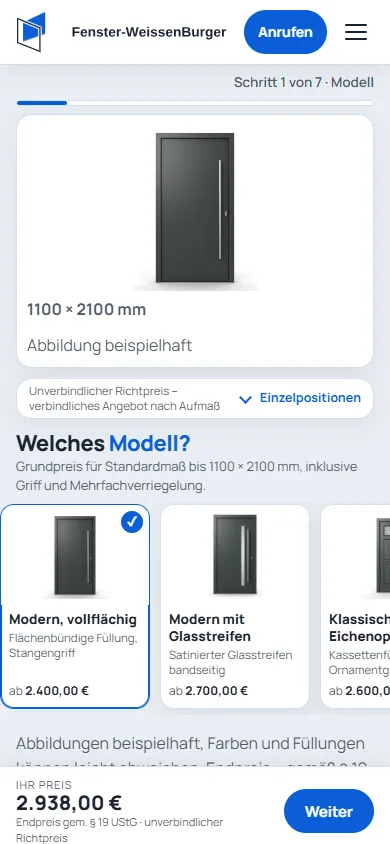
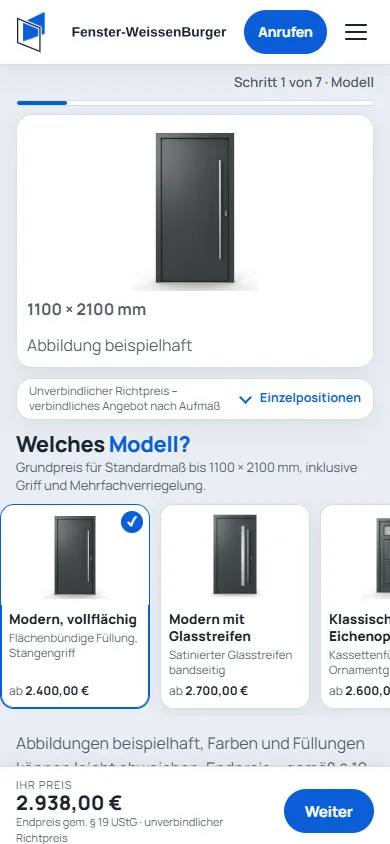
Konfigurator: Startfoto der Vorschau steht im HTML (kein Nachladen, kein Sprung; Bildwahl wie im Skript), AVIF-Schritt lässt skriptgesteuerte Bilder aus; Telefon: reservierte Höhen für Vorschau, Preiskasten und Karten (kein Layout-Sprung); Test für Startfoto; Screenshots aktualisiert

Changed region(s): [[0.0308, 0.4929, 0.4923, 0.5545], [0.0923, 0.0, 0.1231, 0.0308]]

diff --git a/scripts/build-konfigurator.js b/scripts/build-konfigurator.js
@@ -15,6 +15,30 @@ if (!["aus", "vorschau", "online"].includes(status)) throw new Error("Ungültige
 const preise = JSON.parse(fs.readFileSync(path.join(root, "data/preise.json"), "utf8"));
 const Preis = require(path.join(root, "js/preis.js"));
 const Steuer = require(path.join(root, "js/steuer.js"));
+/* Vorschaufoto der Startkonfiguration vorladen (LCP auf dem Telefon): Startzustand aus js/konfigurator.js (eine Quelle),
+   Bildwahl wie im Browser (js/konfigurator-bilder.js), größte Stufe – genau das Bild, das das Skript zuerst lädt. */
+function vorschauStart(key) {
+  try {
+    const js = fs.readFileSync(path.join(root, "js/konfigurator.js"), "utf8");
+    const m = js.match(/var state = produkt === "fenster"\s*\?\s*(\{[^\n]*\})\s*:\s*(\{[^\n]*\});/);
+    if (!m) return null;
+    const state = new Function("return " + (key === "fenster" ? m[1] : m[2]))();
+    const FWB = require(path.join(root, "js/konfigurator-bilder.js"));
+    const B = FWB.Bilder(JSON.parse(fs.readFileSync(path.join(root, "data/konfigurator-bilder.json"), "utf8")), JSON.parse(fs.readFileSync(path.join(root, "data/preise.json"), "utf8")));
+    const name = B.vorschau(key, state); if (!name) return null;
+    const info = B.info(name) || {}; const g = info.groessen || [900];
+    return { name, src: "/assets/konfigurator/" + name + "-" + g[g.length - 1] + ".webp", alt: info.alt || "Vorschau Ihrer Konfiguration – Abbildung beispielhaft", breite: info.breite || 896, hoehe: info.hoehe || 1200 };
+  } catch (e) { return null; }
+}
+/* Vorschau-Kasten: Startfoto steht bereits im HTML (größtes Element auf dem Telefon → früher LCP, kein Nachladen durch
+   das Skript, das denselben Namen erkennt); ohne passendes Foto bleibt die schematische Zeichnung */
+function vorschauKasten(key) {
+  const v = vorschauStart(key);
+  const img = v
+    ? `<img class="preview__foto" src="${v.src}" data-name="${esc(v.name)}" alt="${esc(v.alt)}" width="${v.breite}" height="${v.hoehe}" decoding="async" fetchpriority="high">`
+    : `<img class="preview__foto" alt="" width="896" height="1200" decoding="async" fetchpriority="high" hidden>`;
+  return `<div class="preview${v ? " hat-foto" : ""}"><div class="preview__media"><svg viewBox="0 0 320 300" role="img" aria-label="Schematische Vorschau Ihrer Konfiguration"></svg>${img}<span class="preview__etikett" hidden></span></div><div class="preview__fuss"><p class="preview__masse"></p><p class="preview__note">${v ? "Abbildung beispielhaft" : "Schematische Darstellung"}</p></div></div>`;
+}
 const SATZ = Steuer.satz(einst);
 const ST = Steuer.texte(SATZ);
 const listeOk = Preis.validiereListe(preise).ok;
@@ -70,7 +94,7 @@ function header(current) {
     <button type="button" class="menu-btn" aria-label="Menü öffnen" aria-expanded="false" aria-controls="hauptnav"><span class="menu-btn__i" aria-hidden="true"></span></button>
   </header>`;
 }
-function head(p, noindex, extraScripts) {
+function head(p, noindex, extraScripts, extraHead) {
   return `<!doctype html>
 <html lang="de">
 <head>
@@ -89,7 +113,7 @@ function head(p, noindex, extraScripts) {
   <meta property="og:image" content="${SITE}/assets/logo/og-image.png">
   <link rel="icon" href="/favicon.svg" type="image/svg+xml">
   <link rel="apple-touch-icon" href="/assets/logo/apple-touch-icon.png">
-  <link rel="preload" href="/assets/fonts/manrope-latin.woff2" as="font" type="font/woff2" crossorigin>
+  <link rel="preload" href="/assets/fonts/manrope-latin.woff2" as="font" type="font/woff2" crossorigin>${extraHead ? "\n  " + extraHead : ""}
   <link rel="stylesheet" href="/css/style.css?v=${V.style}">
   <link rel="stylesheet" href="/css/uebergang.css?v=${V.ueberCss}">
   <script src="/js/uebergang.js?v=${V.ueberJs}"></script>
@@ -197,7 +221,7 @@ function pageKonf(key) {
         </div>
 
         <aside class="konf__aside" aria-label="Ihre Konfiguration">
-          <div class="preview"><div class="preview__media"><svg viewBox="0 0 320 300" role="img" aria-label="Schematische Vorschau Ihrer Konfiguration"></svg><img class="preview__foto" alt="" width="896" height="1200" decoding="async" fetchpriority="high" hidden><span class="preview__etikett" hidden></span></div><div class="preview__fuss"><p class="preview__masse"></p><p class="preview__note">Schematische Darstellung</p></div></div>
+          ${vorschauKasten(key)}
           <div class="price"><p class="price__na">Preis wird berechnet …</p></div>
         </aside>
       </div>

diff --git a/tests/konfigurator-preload.test.js b/tests/konfigurator-preload.test.js
@@ -1,0 +1,54 @@
+/* Test: Die Online-Konfigurator-Seiten zeigen das Vorschaufoto der Startkonfiguration bereits im HTML (LCP auf dem
+   Telefon, kein Nachladen) – genau das Bild, das js/konfigurator.js für seinen Startzustand wählt (gleiche Bildauswahl,
+   größte Stufe, data-name für das Skript). Platzhalterseiten („Demnächst“) enthalten kein Foto. Keine festen Admin-Datenwerte: Startzustand und Bildnamen kommen aus den Quellen. */
+"use strict";
+const test = require("node:test");
+const assert = require("node:assert/strict");
+const fs = require("fs");
+const os = require("os");
+const path = require("path");
+const { execFileSync } = require("child_process");
+
+const ROOT = path.join(__dirname, "..");
+const lies = (f) => fs.readFileSync(path.join(ROOT, f), "utf8");
+
+function startzustaende() {
+  /* aus js/konfigurator.js: var state = produkt === "fenster" ? {…} : {…}; */
+  const js = lies("js/konfigurator.js");
+  const m = js.match(/var state = produkt === "fenster"\s*\?\s*(\{[^\n]*\})\s*:\s*(\{[^\n]*\});/);
+  assert.ok(m, "Startzustand in js/konfigurator.js gefunden");
+  return { fenster: new Function("return " + m[1])(), haustuer: new Function("return " + m[2])() };
+}
+function erwartet() {
+  const FWB = require("../js/konfigurator-bilder.js");
+  const B = FWB.Bilder(JSON.parse(lies("data/konfigurator-bilder.json")), JSON.parse(lies("data/preise.json")));
+  const st = startzustaende(), out = {};
+  for (const k of ["fenster", "haustuer"]) { const n = B.vorschau(k, st[k]); const g = ((B.info(n) || {}).groessen || [900]); out[k] = n ? `/assets/konfigurator/${n}-${g[g.length - 1]}.webp` : null; }
+  return out;
+}
+test("Generator (online): Vorschaufoto der Startkonfiguration steht im HTML – identisch mit der Bildwahl des Skripts; Platzhalterseite ohne Foto", () => {
+  const tmp = fs.mkdtempSync(path.join(os.tmpdir(), "fw-konf-preload-"));
+  const kopiere = (rel) => { const q = path.join(ROOT, rel); if (!fs.existsSync(q)) return; const z = path.join(tmp, rel); if (fs.statSync(q).isDirectory()) { fs.mkdirSync(z, { recursive: true }); for (const e of fs.readdirSync(q)) kopiere(path.join(rel, e)); } else { fs.mkdirSync(path.dirname(z), { recursive: true }); fs.copyFileSync(q, z); } };
+  for (const r of ["index.html", "leistungen", "referenzen", "produkte", "konfigurator", "data", "js", "css", "netlify/functions/_lib", "sitemap-seiten.xml"]) kopiere(r);
+  const e = JSON.parse(lies("data/einstellungen.json")); e.konfigurator = Object.assign({}, e.konfigurator, { status: "online" });
+  fs.writeFileSync(path.join(tmp, "data/einstellungen.json"), JSON.stringify(e));
+  execFileSync(process.execPath, [path.join(ROOT, "scripts/build-konfigurator.js")], { env: Object.assign({}, process.env, { FW_ROOT: tmp }), stdio: "pipe" });
+  const soll = erwartet();
+  for (const k of ["fenster", "haustuer"]) {
+    const html = fs.readFileSync(path.join(tmp, "konfigurator", k, "index.html"), "utf8");
+    const img = (html.match(/<img class="preview__foto"[^>]*>/) || [])[0];
+    assert.ok(img, k + ": Vorschaubild vorhanden");
+    if (soll[k]) {
+      assert.ok(img.includes(`src="${soll[k]}"`), k + ": " + img);
+      assert.ok(img.includes(`data-name="${path.basename(soll[k]).replace(/-\d+\.webp$/, "")}"`), k + ": data-name für das Skript");
+      assert.ok(/fetchpriority="high"/.test(img) && !/hidden/.test(img) && /alt="[^"]+Abbildung beispielhaft"/.test(img), k + ": sichtbar, priorisiert, Alternativtext");
+      assert.ok(/<div class="preview hat-foto">/.test(html) && html.includes('<p class="preview__note">Abbildung beispielhaft</p>'), k + ": Kasten im Foto-Zustand");
+    } else assert.ok(/hidden/.test(img));
+    assert.ok(!/rel="preload" as="image"/.test(html), k + ": kein zusätzlicher Preload");
+    /* Der AVIF-Schritt darf das skriptgesteuerte Vorschaubild nicht in <picture> hüllen (eine <source> würde spätere src-Wechsel überstimmen) */
+    const pic = require("../scripts/bilder-picture").verarbeite(ROOT, html, path.join(ROOT, "konfigurator", k, "index.html"));
+    assert.ok(!/<picture>(<source[^>]*>)*<img class="preview__foto"/.test(pic.html), k + ": Vorschaubild bleibt ohne <picture>");
+    const soon = fs.readFileSync(path.join(tmp, "konfigurator", k, "demnaechst.html"), "utf8");
+    assert.ok(!/preview__foto/.test(soon), k + ": Platzhalterseite ohne Vorschaufoto");
+  }
+});

diff --git a/css/konfigurator.css b/css/konfigurator.css
@@ -194,17 +194,17 @@
   .preview { padding: 8px 10px 8px; }
   .preview__media { height: clamp(140px, 20vh, 230px); min-height: 0; }
   .preview__fuss { grid-template-columns: 1fr; gap: 0; margin-top: 6px; }
-  .preview__masse { font-size: 13.5px; min-height: 0; }
+  .preview__masse { font-size: 13.5px; } /* min-height bleibt: wird per Skript befüllt (kein Layout-Sprung) */
   .preview__note { text-align: left; white-space: normal; overflow: visible; text-overflow: clip; font-size: 11px; line-height: 1.35; } /* „Abbildung beispielhaft“ in eigener Zeile, nie abgeschnitten */
   /* Preiskasten: eine Zeile – Hinweis links (klein, zweizeilig erlaubt), Link „Einzelpositionen anzeigen“ rechts; aufgeklappt volle Breite */
-  .price { padding: 5px 12px; min-height: 0; display: flex; flex-wrap: wrap; align-items: center; gap: 4px 10px; }
+  .price { padding: 5px 12px; min-height: 42px; box-sizing: border-box; display: flex; flex-wrap: wrap; align-items: center; gap: 4px 10px; } /* feste Mindesthöhe: Inhalt kommt per Skript */
   .price .preishinweis { margin: 0; flex: 1 1 160px; min-width: 0; font-size: 11.5px; line-height: 1.3; }
   .price .price__note { margin-top: 2px; font-size: 11.5px; flex: 1 1 100%; }
   .posliste { border-top: 0; margin-top: 0; padding: 0; flex: 0 0 auto; }
   .posliste[open] { flex: 1 1 100%; }
   .posliste summary { font-size: 12.5px; min-height: 28px; white-space: nowrap; }
   .posliste__mehr { display: none; } /* Telefon: „Einzelpositionen“ statt „Einzelpositionen anzeigen“ – Hinweis und Link passen in eine Zeile */
-  .konf__panels { min-height: 0; }
+  .konf__panels { min-height: 268px; } /* Platz für Titel + eine Kartenreihe, bevor das Skript rendert (kein Layout-Sprung) */
   .konf__panel h2 { font-size: clamp(21px, 5.6vw, 26px); margin: 2px 0 0; }
   .konf__panel .lead--sm { font-size: 13px; line-height: 1.4; display: -webkit-box; -webkit-line-clamp: 2; -webkit-box-orient: vertical; overflow: hidden; }
   .opts { margin-top: 8px; }

diff --git a/konfigurator/haustuer/demnaechst.html b/konfigurator/haustuer/demnaechst.html
@@ -22,7 +22,7 @@
   <script src="/js/uebergang.js?v=478247c7"></script>
   <link rel="stylesheet" href="/css/leistungen.css?v=7ab5d8d3">
   <link rel="stylesheet" href="/css/produkte.css?v=6f5cab02">
-  <link rel="stylesheet" href="/css/konfigurator.css?v=2f070900">
+  <link rel="stylesheet" href="/css/konfigurator.css?v=c3674258">
   <script type="application/ld+json">{"@context":"https://schema.org","@type":"BreadcrumbList","itemListElement":[{"@type":"ListItem","position":1,"name":"Start","item":"https://fenster-weissenburger.de/"},{"@type":"ListItem","position":2,"name":"Produkte","item":"https://fenster-weissenburger.de/produkte/"},{"@type":"ListItem","position":3,"name":"Haustür-Konfigurator","item":"https://fenster-weissenburger.de/konfigurator/haustuer/"}]}</script>
   <script type="application/ld+json" data-firma="jsonld">{"@context":"https://schema.org","@type":"LocalBusiness","@id":"https://fenster-weissenburger.de/#firma","name":"Fenster-WeissenBurger UG (haftungsbeschränkt)","url":"https://fenster-weissenburger.de/","telephone":"+49 176 81338935","email":"info@fenster-weissenburger.de","image":"https://fenster-weissenburger.de/assets/logo/og-image.png","logo":"https://fenster-weissenburger.de/assets/logo/og-image.png","address":{"@type":"PostalAddress","streetAddress":"Richard-Strauß-Straße 21","postalCode":"85057","addressLocality":"Ingolstadt","addressRegion":"Bayern","addressCountry":"DE"},"openingHoursSpecification":[{"@type":"OpeningHoursSpecification","dayOfWeek":["Monday","Tuesday","Wednesday","Thursday","Friday"],"opens":"09:00","closes":"17:00"}],"vatID":"DE451686074","priceRange":"€€"}</script>
   

diff --git a/konfigurator/haustuer/index.html b/konfigurator/haustuer/index.html
@@ -22,7 +22,7 @@
   <script src="/js/uebergang.js?v=478247c7"></script>
   <link rel="stylesheet" href="/css/leistungen.css?v=7ab5d8d3">
   <link rel="stylesheet" href="/css/produkte.css?v=6f5cab02">
-  <link rel="stylesheet" href="/css/konfigurator.css?v=2f070900">
+  <link rel="stylesheet" href="/css/konfigurator.css?v=c3674258">
   <script type="application/ld+json">{"@context":"https://schema.org","@type":"BreadcrumbList","itemListElement":[{"@type":"ListItem","position":1,"name":"Start","item":"https://fenster-weissenburger.de/"},{"@type":"ListItem","position":2,"name":"Produkte","item":"https://fenster-weissenburger.de/produkte/"},{"@type":"ListItem","position":3,"name":"Haustür-Konfigurator","item":"https://fenster-weissenburger.de/konfigurator/haustuer/"}]}</script>
   <script type="application/ld+json" data-firma="jsonld">{"@context":"https://schema.org","@type":"LocalBusiness","@id":"https://fenster-weissenburger.de/#firma","name":"Fenster-WeissenBurger UG (haftungsbeschränkt)","url":"https://fenster-weissenburger.de/","telephone":"+49 176 81338935","email":"info@fenster-weissenburger.de","image":"https://fenster-weissenburger.de/assets/logo/og-image.png","logo":"https://fenster-weissenburger.de/assets/logo/og-image.png","address":{"@type":"PostalAddress","streetAddress":"Richard-Strauß-Straße 21","postalCode":"85057","addressLocality":"Ingolstadt","addressRegion":"Bayern","addressCountry":"DE"},"openingHoursSpecification":[{"@type":"OpeningHoursSpecification","dayOfWeek":["Monday","Tuesday","Wednesday","Thursday","Friday"],"opens":"09:00","closes":"17:00"}],"vatID":"DE451686074","priceRange":"€€"}</script>
   

diff --git a/konfigurator/fenster/demnaechst.html b/konfigurator/fenster/demnaechst.html
@@ -22,7 +22,7 @@
   <script src="/js/uebergang.js?v=478247c7"></script>
   <link rel="stylesheet" href="/css/leistungen.css?v=7ab5d8d3">
   <link rel="stylesheet" href="/css/produkte.css?v=6f5cab02">
-  <link rel="stylesheet" href="/css/konfigurator.css?v=2f070900">
+  <link rel="stylesheet" href="/css/konfigurator.css?v=c3674258">
   <script type="application/ld+json">{"@context":"https://schema.org","@type":"BreadcrumbList","itemListElement":[{"@type":"ListItem","position":1,"name":"Start","item":"https://fenster-weissenburger.de/"},{"@type":"ListItem","position":2,"name":"Produkte","item":"https://fenster-weissenburger.de/produkte/"},{"@type":"ListItem","position":3,"name":"Fenster-Konfigurator","item":"https://fenster-weissenburger.de/konfigurator/fenster/"}]}</script>
   <script type="application/ld+json" data-firma="jsonld">{"@context":"https://schema.org","@type":"LocalBusiness","@id":"https://fenster-weissenburger.de/#firma","name":"Fenster-WeissenBurger UG (haftungsbeschränkt)","url":"https://fenster-weissenburger.de/","telephone":"+49 176 81338935","email":"info@fenster-weissenburger.de","image":"https://fenster-weissenburger.de/assets/logo/og-image.png","logo":"https://fenster-weissenburger.de/assets/logo/og-image.png","address":{"@type":"PostalAddress","streetAddress":"Richard-Strauß-Straße 21","postalCode":"85057","addressLocality":"Ingolstadt","addressRegion":"Bayern","addressCountry":"DE"},"openingHoursSpecification":[{"@type":"OpeningHoursSpecification","dayOfWeek":["Monday","Tuesday","Wednesday","Thursday","Friday"],"opens":"09:00","closes":"17:00"}],"vatID":"DE451686074","priceRange":"€€"}</script>
   

diff --git a/konfigurator/fenster/index.html b/konfigurator/fenster/index.html
@@ -22,7 +22,7 @@
   <script src="/js/uebergang.js?v=478247c7"></script>
   <link rel="stylesheet" href="/css/leistungen.css?v=7ab5d8d3">
   <link rel="stylesheet" href="/css/produkte.css?v=6f5cab02">
-  <link rel="stylesheet" href="/css/konfigurator.css?v=2f070900">
+  <link rel="stylesheet" href="/css/konfigurator.css?v=c3674258">
   <script type="application/ld+json">{"@context":"https://schema.org","@type":"BreadcrumbList","itemListElement":[{"@type":"ListItem","position":1,"name":"Start","item":"https://fenster-weissenburger.de/"},{"@type":"ListItem","position":2,"name":"Produkte","item":"https://fenster-weissenburger.de/produkte/"},{"@type":"ListItem","position":3,"name":"Fenster-Konfigurator","item":"https://fenster-weissenburger.de/konfigurator/fenster/"}]}</script>
   <script type="application/ld+json" data-firma="jsonld">{"@context":"https://schema.org","@type":"LocalBusiness","@id":"https://fenster-weissenburger.de/#firma","name":"Fenster-WeissenBurger UG (haftungsbeschränkt)","url":"https://fenster-weissenburger.de/","telephone":"+49 176 81338935","email":"info@fenster-weissenburger.de","image":"https://fenster-weissenburger.de/assets/logo/og-image.png","logo":"https://fenster-weissenburger.de/assets/logo/og-image.png","address":{"@type":"PostalAddress","streetAddress":"Richard-Strauß-Straße 21","postalCode":"85057","addressLocality":"Ingolstadt","addressRegion":"Bayern","addressCountry":"DE"},"openingHoursSpecification":[{"@type":"OpeningHoursSpecification","dayOfWeek":["Monday","Tuesday","Wednesday","Thursday","Friday"],"opens":"09:00","closes":"17:00"}],"vatID":"DE451686074","priceRange":"€€"}</script>
   

diff --git a/scripts/bilder-picture.js b/scripts/bilder-picture.js
@@ -38,6 +38,7 @@ function verarbeite(root, html, htmlDatei) {
   const out = html.replace(/<img\b[^>]*>/g, (tag, offset) => {
     const vorher = html.slice(Math.max(0, offset - 400), offset);
     if (/<picture\b[^>]*>\s*(<source\b[^>]*>\s*)*$/.test(vorher)) return tag;
+    if (/\bdata-name="/.test(tag)) return tag; // vom Skript gesteuerte Bilder (Konfigurator-Vorschau): eine <source> würde spätere src-Wechsel überstimmen
     const srcset = (tag.match(/\bsrcset="([^"]*)"/) || [])[1];
     const src = (tag.match(/\bsrc="([^"]*)"/) || [])[1];
     const sizes = (tag.match(/\bsizes="([^"]*)"/) || [])[1];
